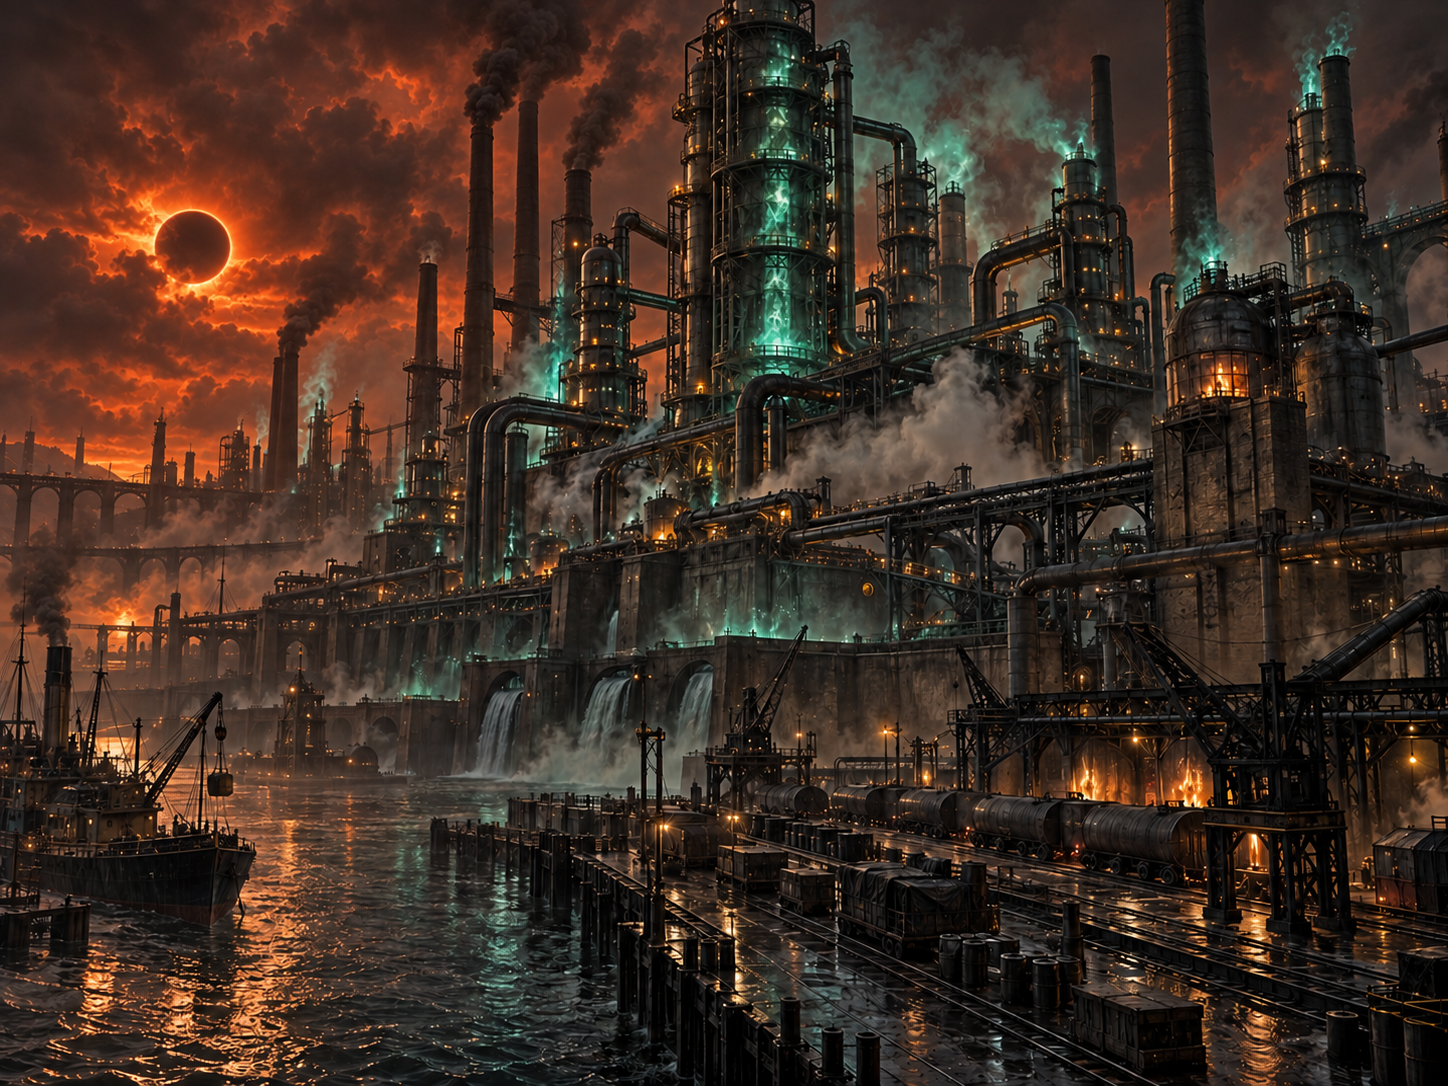
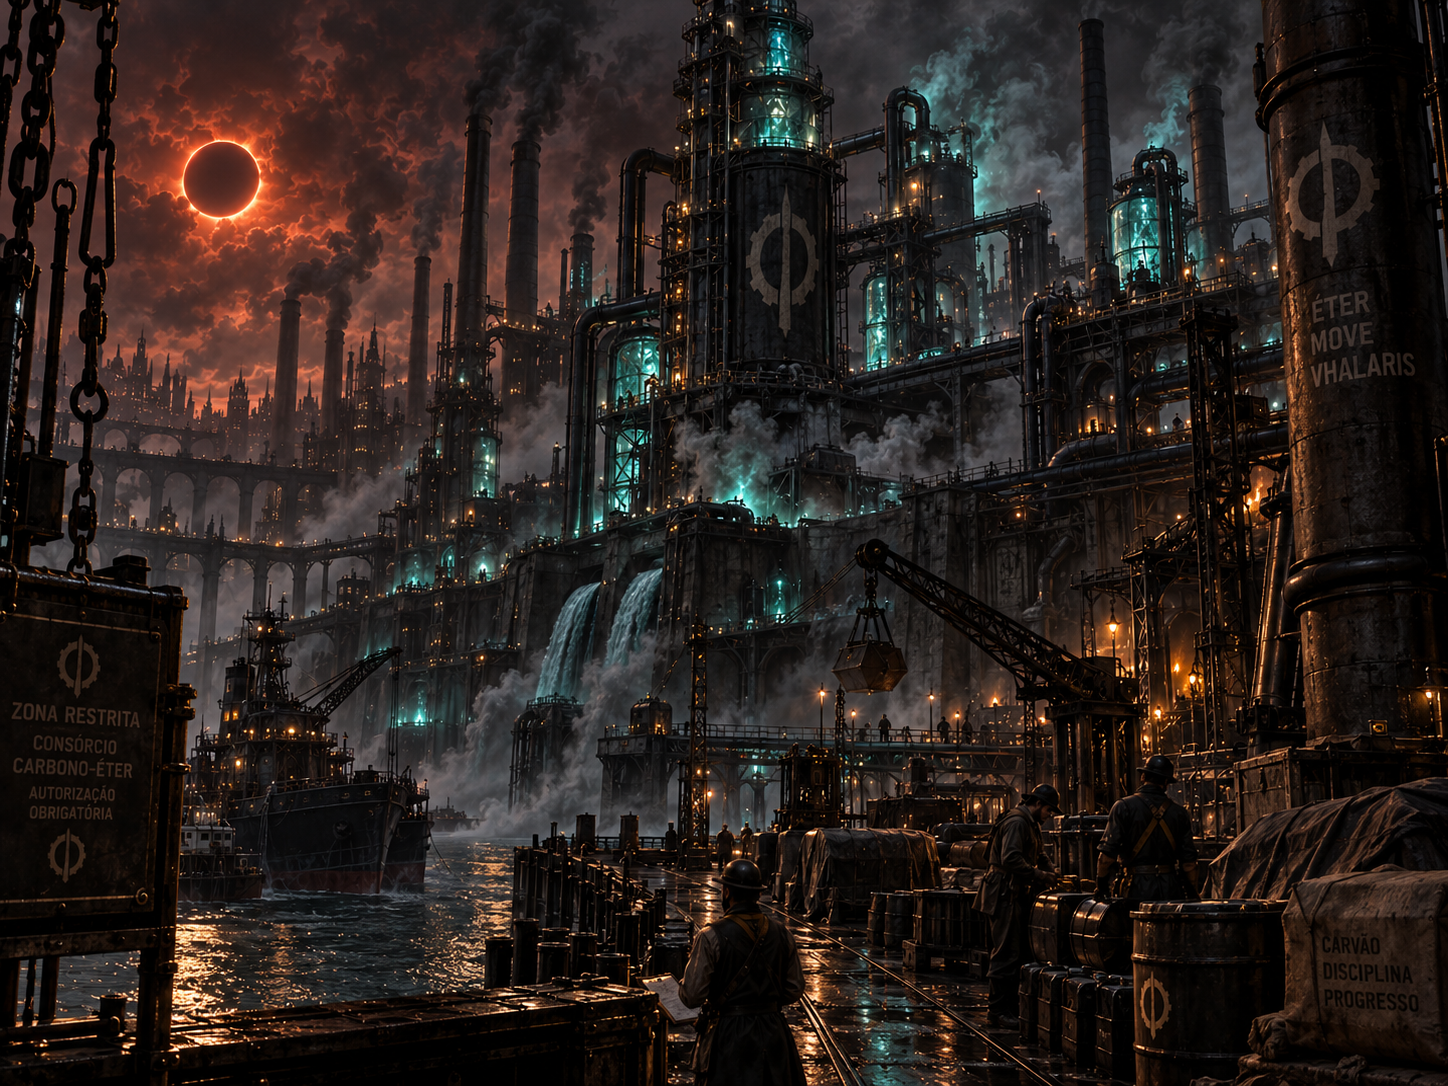
vault backup: 2026-09-15 18:11:54

diff --git a/Notas/Refinaria de Brumaferro-Oculto.md b/Notas/Refinaria de Brumaferro-Oculto.md
@@ -9,6 +9,8 @@ A monumentalidade da [[Refinaria de Brumaferro]] esconde fundações pré-humana
 A refinaria não foi construída naquele local por conveniência logística fluvial. Ela foi erguida diretamente sobre uma das maiores estações de captação da malha ancestral pré-humana.
 * Três das quatro principais linhas de admissão de Éter bruto não são poços escavados por mineiros modernos: são condutos metálicos colossais que já estavam no subsolo quando a cidade foi fundada.
 * Os engenheiros da [[Casa Valmont-Shor]] desconhecem o trajeto completo dessas tubulações e apenas controlam as válvulas de topo.
+  
+  ![[Catedral Industrial das Profundezas.png]]
 
 ## Drenagem Tóxica para o Bairro das Caldeiras
 
